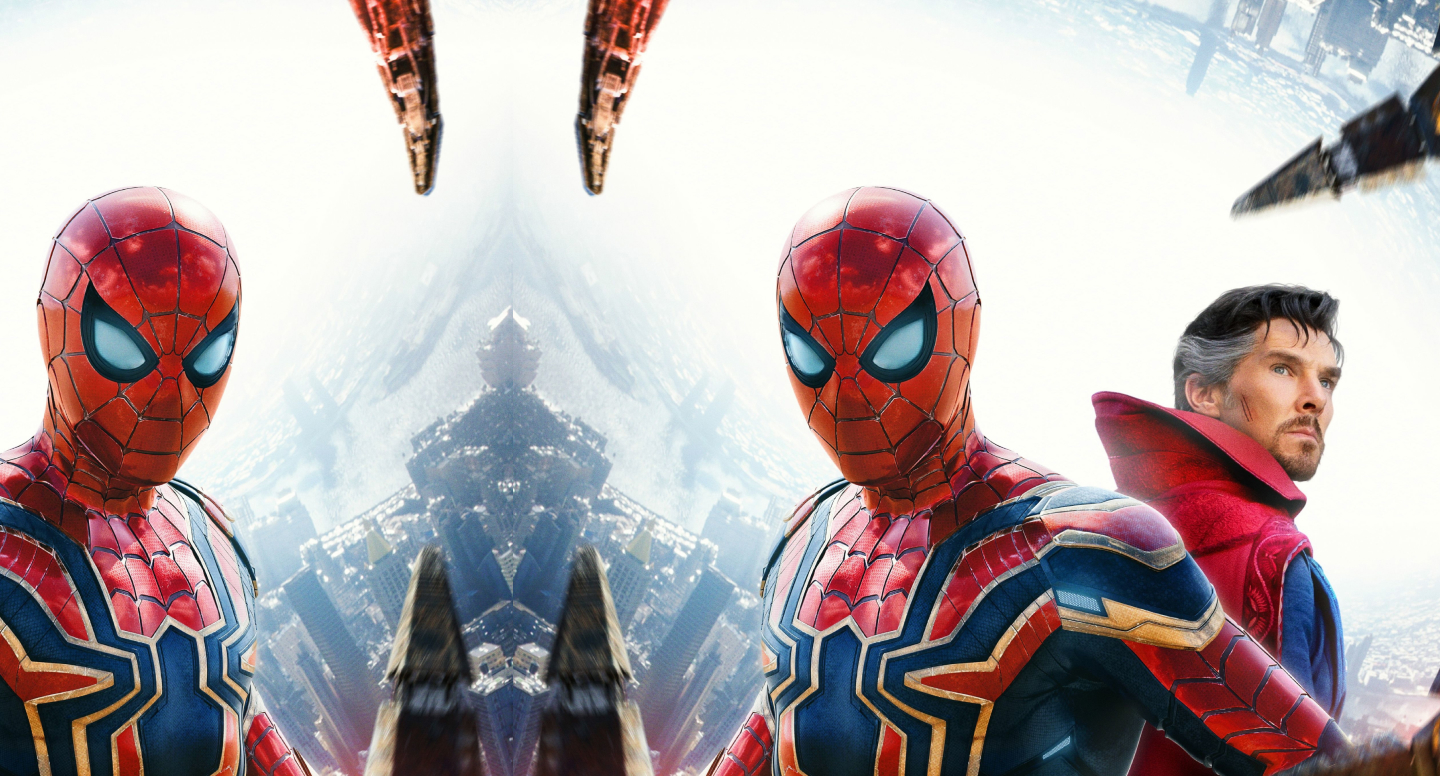
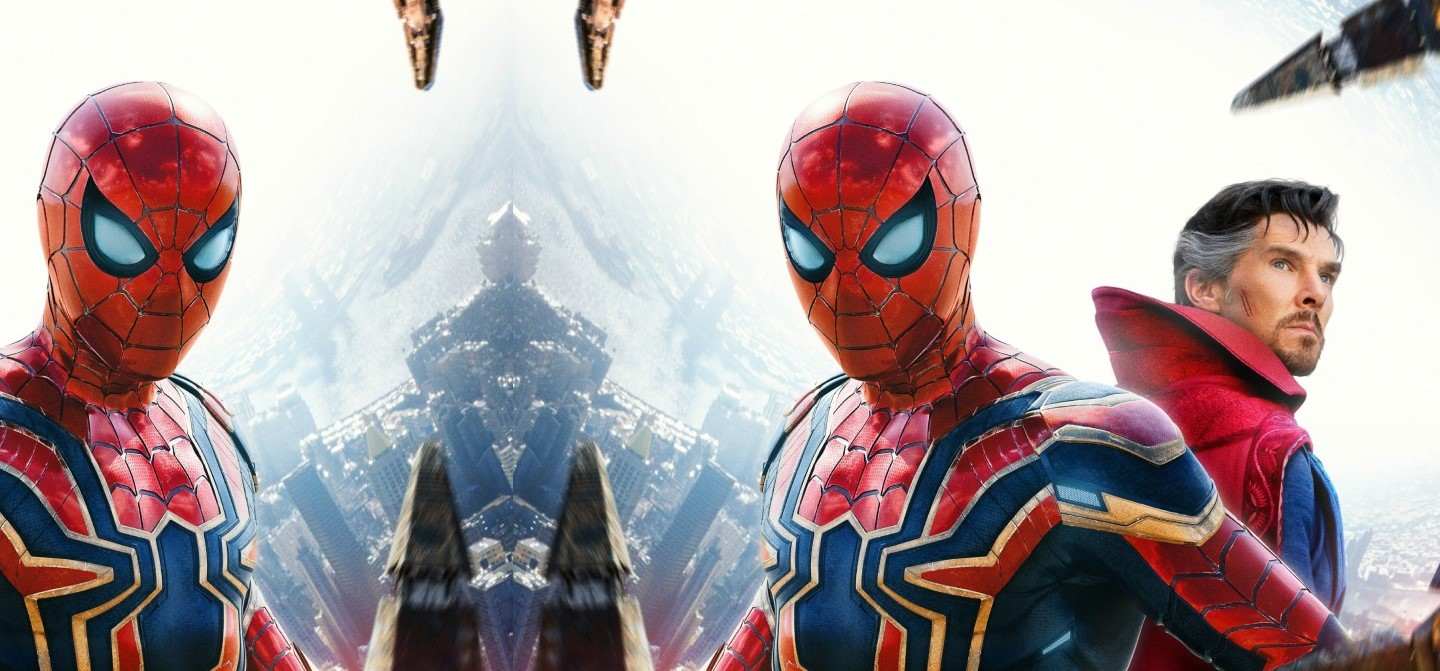
Frontend of Home Page Carasoul

diff --git a/Zion_Cinema/src/main/webapp/StyleSheet1.css b/Zion_Cinema/src/main/webapp/StyleSheet1.css
@@ -1,0 +1,239 @@
+@import url('https://fonts.googleapis.com/css2?family=Open+Sans:ital,wght@0,300..800;1,300..800&family=Playfair+Display:ital,wght@0,400..900;1,400..900&family=Roboto+Serif:ital,opsz,wght@0,8..144,100..900;1,8..144,100..900&display=swap');
+
+*{
+    font-size: 16px;
+    font-family: lora;
+    box-sizing: border-box;
+}
+
+body{
+    background-color: black;
+    margin: 0;
+    padding: 0;
+    color:white;
+
+}
+
+/* Header Section */
+.header-background{
+    background: linear-gradient(to bottom, rgba(0, 0, 0, 0.6), rgba(0, 0, 0, 0));
+
+    width:100%;
+    position: absolute;
+    margin-top: 0px;
+    height:70px;
+    z-index: 2; 
+    background-blend-mode: overlay;
+
+}
+
+.header-container{
+    width:90%;
+    margin: 0 auto;
+    display: flex;
+    align-items: center; 
+    justify-content: space-between; 
+    position: absolute; 
+    z-index: 3; 
+    margin-left: 5%;
+
+}
+
+.header-container img{
+    width:2.6rem;
+    height:3.6rem;
+    margin-top: 6px;
+}
+
+.logo-name {
+    font-size: 2rem;
+    margin-top: 1rem;
+    margin-left: 1rem;
+    font-family: "Playfair Display", serif;
+    font-weight: bold;
+    white-space: nowrap;
+    color: white;
+    text-decoration: none; 
+}
+
+.header-line {
+    width: 100%;
+    border: 1px solid #F5C51B;
+    position: relative;
+    margin-top: 20px;
+    max-width: 100%; 
+}
+
+
+/* Navigation Bar of the Header */
+.header-container .nav {
+    display: flex;
+    font-size:1.25rem;
+    width:50%;
+    align-items:center;
+    justify-content: space-evenly;
+    margin:0 10%;
+    padding-top: 1.25rem;
+    
+}
+
+.header-container .nav a {
+    font-size: inherit; 
+    text-decoration: none; 
+    color: white; 
+}
+
+.header-container .nav a:hover {
+    font-size: inherit; 
+    text-decoration: none; 
+    color: #F5C51B;
+}
+
+.header-container .nav span{
+    font-size: inherit;
+    border-bottom: 1px solid white;
+    padding:5px 10px;
+}
+
+
+/* Buy Tickets Button */
+.but-buytickets {
+    display: flex;
+    align-items: center;
+    justify-content: center;
+    text-decoration: none; 
+    background-color: #F5C51B; 
+    color: black; 
+    font-size: 1.25rem; 
+    font-weight: bold; 
+    border-radius: 10px; 
+    width: 9%; 
+    height: 30px; 
+    padding: 0 10px; 
+    margin-right: 1rem;
+    margin-top: 1rem;
+    cursor: pointer; 
+    transition: transform 0.3s ease, background-color 0.3s ease, color 0.3s ease; 
+}
+
+.but-buytickets:hover {
+    transform: scale(1.1); 
+    background-color: #DAAE12;
+    color: black; 
+}
+
+/* Login Button */
+.but-login {
+    display: flex;
+    align-items: center;
+    justify-content: center;
+    text-decoration: none;
+    border-radius: 10px;
+    border: 1px solid #F5C51B; 
+    background-color: transparent; 
+    color: #F5C51B; 
+    font-size: 1.25rem; 
+    font-weight: bold; 
+    width: 9%; 
+    height: 30px; 
+    padding: 0 10px; 
+    margin-top: 1rem;
+    cursor: pointer;
+    transition: transform 0.3s ease, background-color 0.3s ease, color 0.3s ease; /* Smooth animation */
+}
+
+.but-login:hover {
+    transform: scale(1.1); 
+}
+
+
+
+
+
+
+
+/* Carousel Section */
+.carousel {
+    position: relative;
+    width: 100%;
+    height: 700px;
+    overflow: hidden;
+    margin-bottom: 50px;
+}
+
+.carousel-slides {
+    display: flex;
+    transition: transform 0.5s ease-in-out;
+}
+
+.slide {
+    flex: 1;
+    min-width: 100%;
+    height: 100%;
+    position: relative;
+}
+
+.slide img {
+    width: 100%;
+    height: 100%;
+    object-fit: cover;
+}
+
+.banner-gradient {
+    position: absolute;
+    top: 0;
+    left: 0;
+    width: 100%;
+    height: 100%;
+    background: 
+    linear-gradient(90deg, rgba(0, 0, 0, 1) 20%, rgba(0, 0, 0, 0.5) 50%, rgba(255, 255, 255, 0) 100%),
+    linear-gradient(180deg, rgba(0, 0, 0, 1) 0%, rgba(0, 0, 0, 0) 0%, rgba(255, 255, 255, 0) 100%);
+
+     z-index: 1;
+}
+
+.slide-content {
+    position: absolute;
+    top: 20%;
+    left: 5%;
+    z-index: 2;
+    max-width: 40%;
+    height: auto;
+}
+
+.slide-content h1 {
+    font-size: 65px;
+    margin-top: 0px;
+    line-height: 1.2;
+    font-family: "Inter", "Helvetica Neue", "Arial", sans-serif;
+    width:75%;
+    
+}
+
+.slide-content p {
+    font-size: 16px;
+    margin-top:0px;
+    line-height: 1.4;
+    width:80%;
+    font-family: "Inter", "Helvetica Neue", "Arial", sans-serif;
+
+}
+
+.book-now {
+    margin-top:40px;
+    background-color: #F5C51B;
+    color: black;
+    padding: 0.8rem 1.5rem;
+    font-size: 1.2rem;
+    border-radius: 10px;
+    border: none;
+    cursor: pointer;
+    transition: transform 0.3s ease, background-color 0.3s ease;
+}
+
+.book-now:hover {
+    background-color: #DAAE12;
+    transform: scale(1.1);
+}
+
+

diff --git a/Zion_Cinema/src/main/webapp/LandingPageScript.js b/Zion_Cinema/src/main/webapp/LandingPageScript.js
@@ -1,0 +1,57 @@
+document.addEventListener("DOMContentLoaded", function () {
+    const slides = document.querySelectorAll('.slide'); // All slides
+    const carouselSlides = document.querySelector('.carousel-slides'); // Carousel container
+
+    // Clone the first and last slides for smooth looping
+    const firstClone = slides[0].cloneNode(true);
+    const lastClone = slides[slides.length - 1].cloneNode(true);
+
+    // Append and prepend clones
+    carouselSlides.appendChild(firstClone); // Append first slide clone at the end
+    carouselSlides.insertBefore(lastClone, slides[0]); // Prepend last slide clone at the beginning
+
+    const totalSlides = slides.length + 2; // Total slides including clones
+    let currentIndex = 1; // Start at the first original slide
+    let isTransitioning = false; // Prevent multiple transitions
+
+    // Set initial position
+    carouselSlides.style.transform = `translateX(-${currentIndex * 100}%)`;
+
+    // Function to update slide position
+    function showSlide(index) {
+        isTransitioning = true;
+        carouselSlides.style.transition = 'transform 0.5s ease-in-out';
+        carouselSlides.style.transform = `translateX(-${index * 100}%)`;
+    }
+
+    // Handle transition end for looping
+    carouselSlides.addEventListener('transitionend', () => {
+        if (currentIndex === 0) {
+            carouselSlides.style.transition = 'none'; // Disable animation
+            currentIndex = totalSlides - 2; // Move to the last original slide
+            carouselSlides.style.transform = `translateX(-${currentIndex * 100}%)`;
+        } else if (currentIndex === totalSlides - 1) {
+            carouselSlides.style.transition = 'none'; // Disable animation
+            currentIndex = 1; // Move to the first original slide
+            carouselSlides.style.transform = `translateX(-${currentIndex * 100}%)`;
+        }
+        isTransitioning = false; // Reset transitioning state
+    });
+
+    // Function to move to the next slide automatically
+    function nextSlide() {
+        if (isTransitioning) return; // Prevent multiple transitions
+        currentIndex++;
+        showSlide(currentIndex);
+    }
+
+    // Automatic slide transition every 3 seconds
+    let autoSlide = setInterval(nextSlide, 3000);
+
+    // Prevent long-term issues by restarting `setInterval` periodically
+    setInterval(() => {
+        clearInterval(autoSlide);
+        autoSlide = setInterval(nextSlide, 3000);
+    }, 60000); // Restart every 60 seconds to avoid potential timer drift
+});
+
